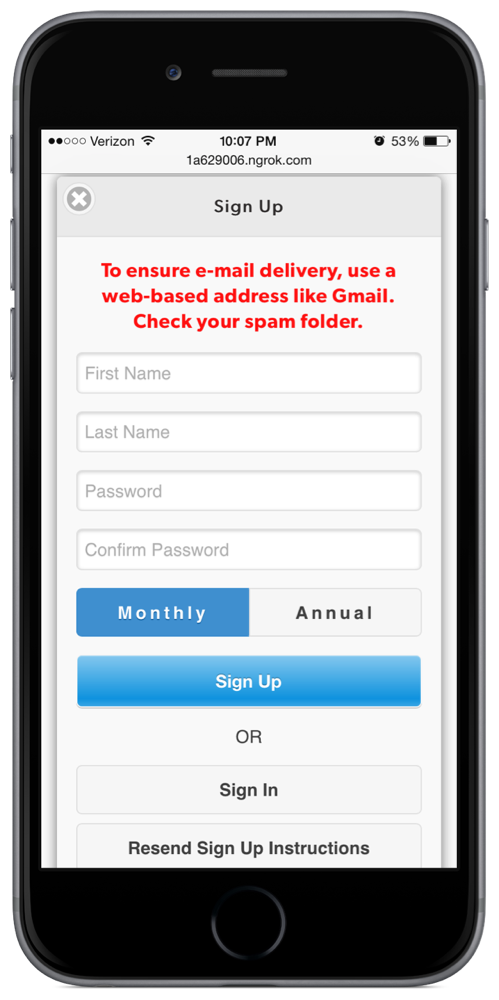
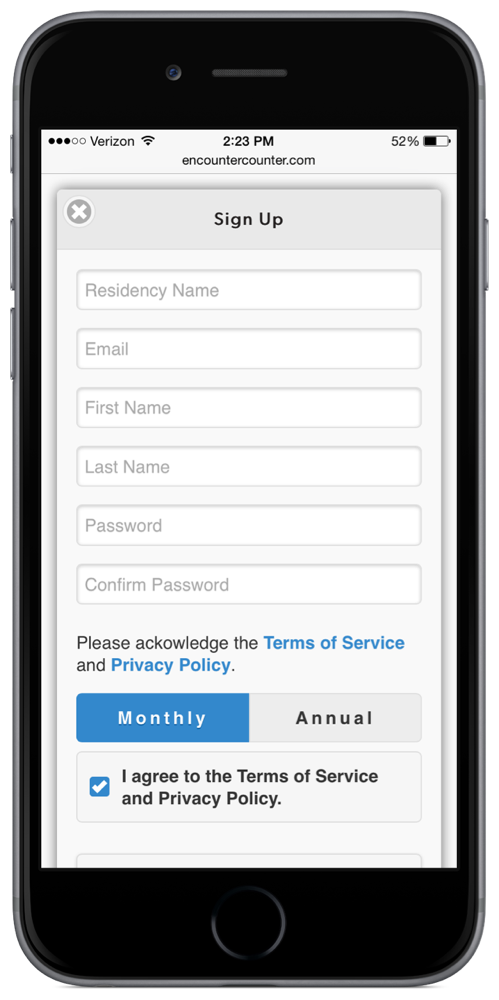
update screenshots on landing page

Changed region(s): [[0.0902, 0.124, 0.9018, 0.806], [0.2405, 0.837, 0.7515, 0.868]]

diff --git a/app/views/pages/index.html b/app/views/pages/index.html
@@ -20,7 +20,6 @@
           <img id="hero-image" src="images/logo_295x235.png">
         </div>
         <div class="one-half column phones">
-          <!-- <img class="phone" src="images/iphone_tally.png"> -->
           <img class="phone" src="images/iphone_tally.png">
         </div>
       </div>
@@ -57,7 +56,7 @@
           <p>Sign in with an e-mail address and password.</p>
         </div>
         <div class="four offset-left-by-two columns phones">
-          <img class="phone" src="images/iphone_sign_up.png">
+          <img class="phone" src="images/iphone_sign_in.png">
         </div>
       </div>
     </div>
@@ -85,7 +84,7 @@
           <p>Residents will see a table of their encounters. Administrators will see all residents' encounters.</p>
         </div>
         <div class="four offset-left-by-two columns phones">
-          <img class="phone" src="images/iphone_sign_up.png">
+          <img class="phone" src="images/iphone_view.png">
         </div>
       </div>
     </div>
@@ -95,7 +94,7 @@
     <div class="container">
       <div class="row">
         <div class="four offset-left-by-one columns phones">
-          <img class="phone" src="images/iphone_sign_up.png">
+          <img class="phone" src="images/iphone_export.png">
         </div>
         <div class="four offset-left-by-two columns feature">
           <h3 class="section-heading">Export</h3>
